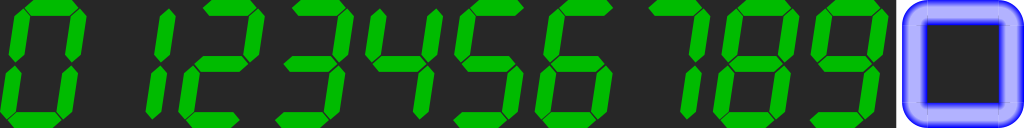
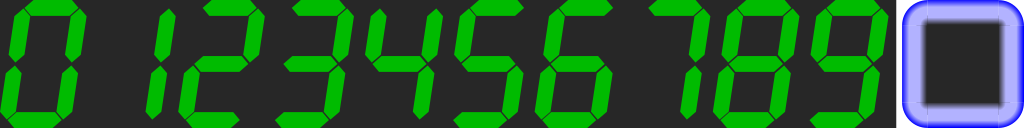
score_painter: Change the colour of the inner side of the frame

Changed region(s): [[0.875, 0.125, 1.0, 0.875]]

diff --git a/src/game/game_painter/score_painter.rs b/src/game/game_painter/score_painter.rs
@@ -201,9 +201,9 @@ impl ScorePainter {
             top - FRAME_WIDTH * y_scale,
             right,
             bottom + FRAME_WIDTH * y_scale,
-            FRAME_TEX_LEFT,
+            u16::MAX - FRAME_TEX_WIDTH,
             u16::MAX / 2,
-            FRAME_TEX_LEFT + FRAME_TEX_WIDTH,
+            u16::MAX,
             u16::MAX / 2,
         );
         // Top side
@@ -224,9 +224,9 @@ impl ScorePainter {
             right - FRAME_WIDTH,
             bottom,
             FRAME_TEX_LEFT + FRAME_TEX_WIDTH * 2,
-            0,
+            u16::MAX - FRAME_TEX_HEIGHT,
             FRAME_TEX_LEFT + FRAME_TEX_WIDTH * 2,
-            FRAME_TEX_HEIGHT,
+            u16::MAX,
         );
 
         // Top-left corner
